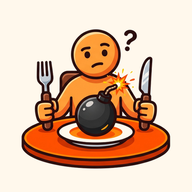
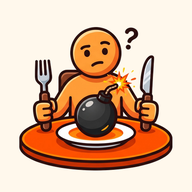
Add files via upload

Changed region(s): [[0.0938, 0.125, 0.9062, 0.9062]]

diff --git a/MangioAvvisato-API/static/index.html b/MangioAvvisato-API/static/index.html
@@ -141,6 +141,36 @@
   .affiancate h2 { font-size: clamp(1.4rem, 2.6vw, 1.75rem); margin-bottom: 1rem; }
 
 
+
+  /* contributo volontario */
+  .contributo {
+    background: var(--pesca);
+    border: 1px solid var(--linea);
+    border-radius: 24px;
+    padding: clamp(1.75rem, 4vw, 2.75rem);
+    display: grid;
+    grid-template-columns: 1fr auto;
+    gap: 1.5rem 2.5rem;
+    align-items: center;
+  }
+  .contributo h2 { margin-bottom: .6rem; font-size: clamp(1.4rem, 2.6vw, 1.75rem); }
+  .contributo p { margin-bottom: 0; }
+  .pulsante-caffe {
+    display: inline-block;
+    padding: .9rem 1.6rem;
+    border-radius: 16px;
+    background: var(--superficie);
+    border: 2px solid var(--marchio-1);
+    color: var(--testo);
+    font-weight: 800;
+    font-size: 1.1rem;
+    text-decoration: none;
+    white-space: nowrap;
+    transition: background-color .15s ease;
+  }
+  .pulsante-caffe:hover { background: var(--sfondo); }
+  .nota-pagamento { margin-top: .6rem; font-size: .9rem; color: var(--tenue); text-align: center; }
+
   footer { border-top: 1px solid var(--linea); padding-block: 2rem 3rem; font-size: .95rem; }
   footer p { margin-bottom: .4rem; }
 
@@ -151,6 +181,8 @@
     .funzione:nth-child(even) .schermata { order: 0; }
     .schermata { width: min(240px, 70%); }
     .affiancate { grid-template-columns: 1fr; }
+    .contributo { grid-template-columns: 1fr; }
+    .nota-pagamento { text-align: left; }
   }
 </style>
 </head>
@@ -226,6 +258,18 @@
     </div>
   </section>
 
+  <section class="contenitore" aria-labelledby="contributo">
+    <div class="contributo">
+      <div>
+        <h2 id="contributo">Ti è utile?</h2>
+        <p>MangioAvvisato è gratuita, senza pubblicità e lo resterà. Se ti è stata utile e vuoi contribuire al tempo che richiede tenerla aggiornata, puoi offrirmi un caffè.</p>
+      </div>
+      <div>
+        <a class="pulsante-caffe" href="https://donate.stripe.com/4gMeVf9jG1IO57BcboejK00" rel="noopener">☕ Offrimi un caffè</a>
+        <p class="nota-pagamento">Carta, Apple Pay, Google Pay o Satispay</p>
+      </div>
+    </div>
+  </section>
 </main>
 
 <footer class="contenitore">
